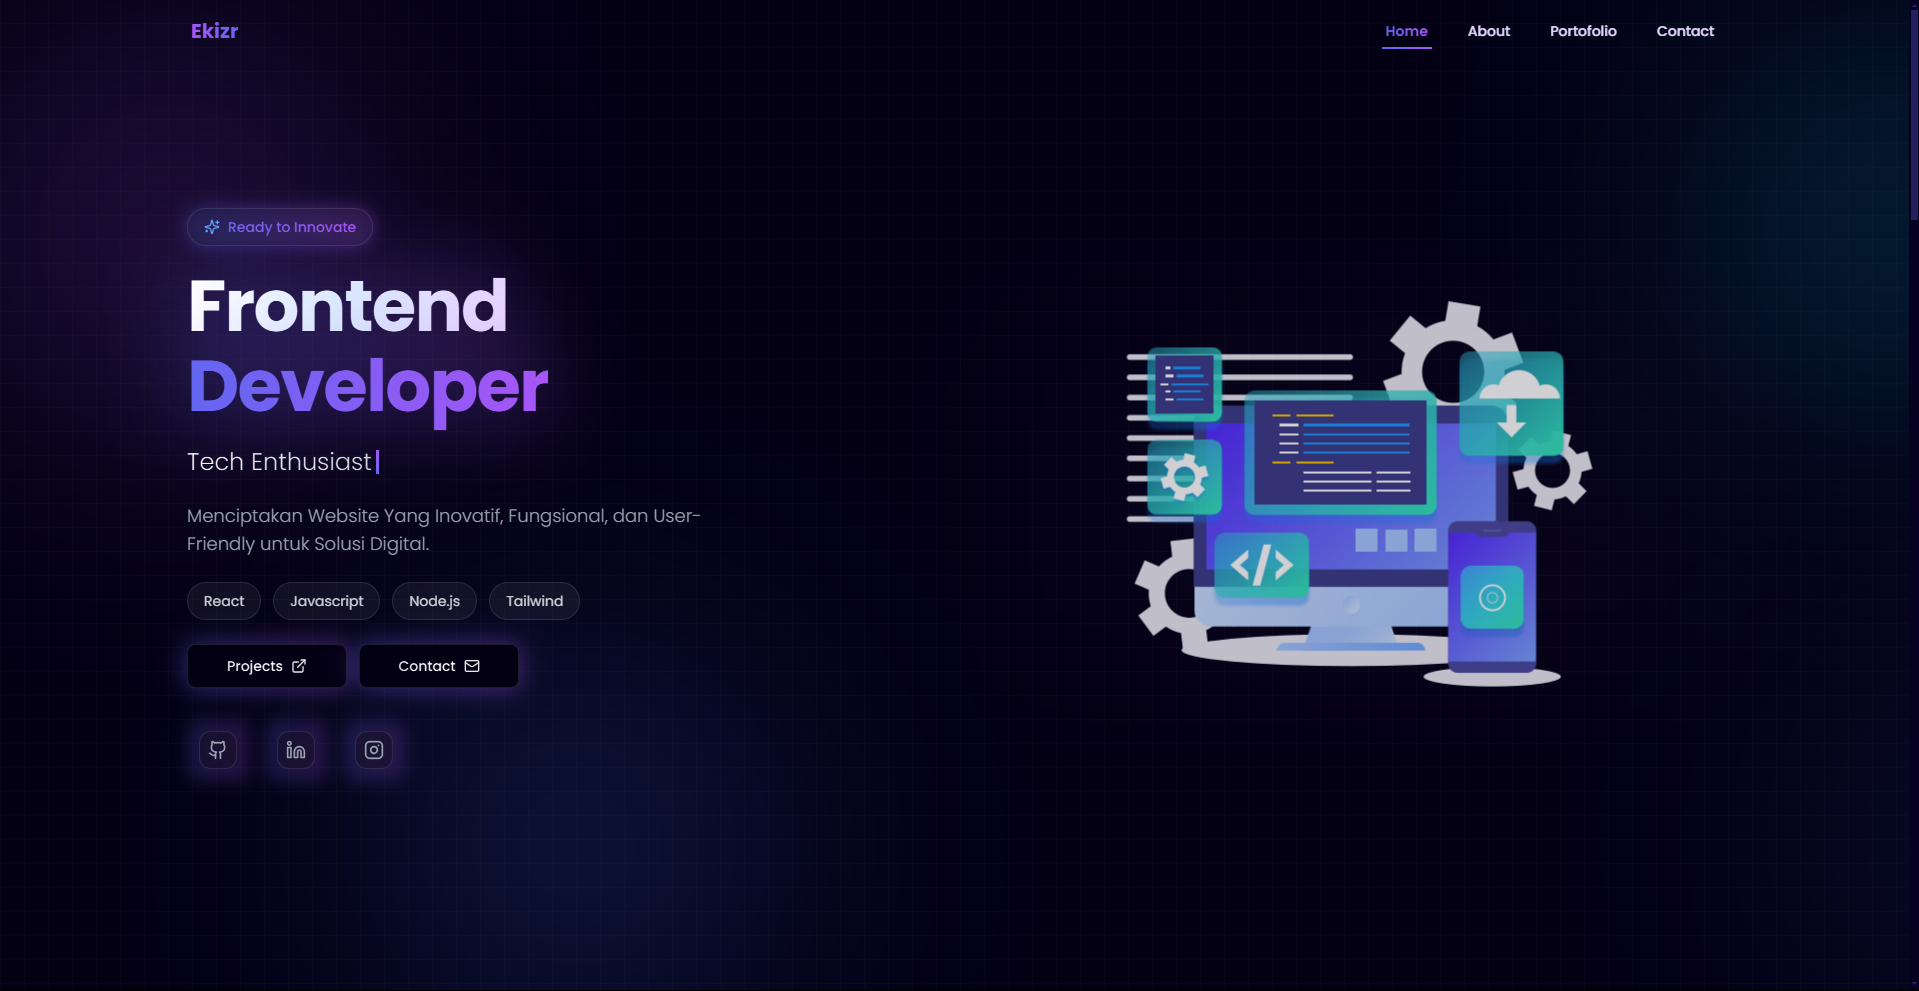
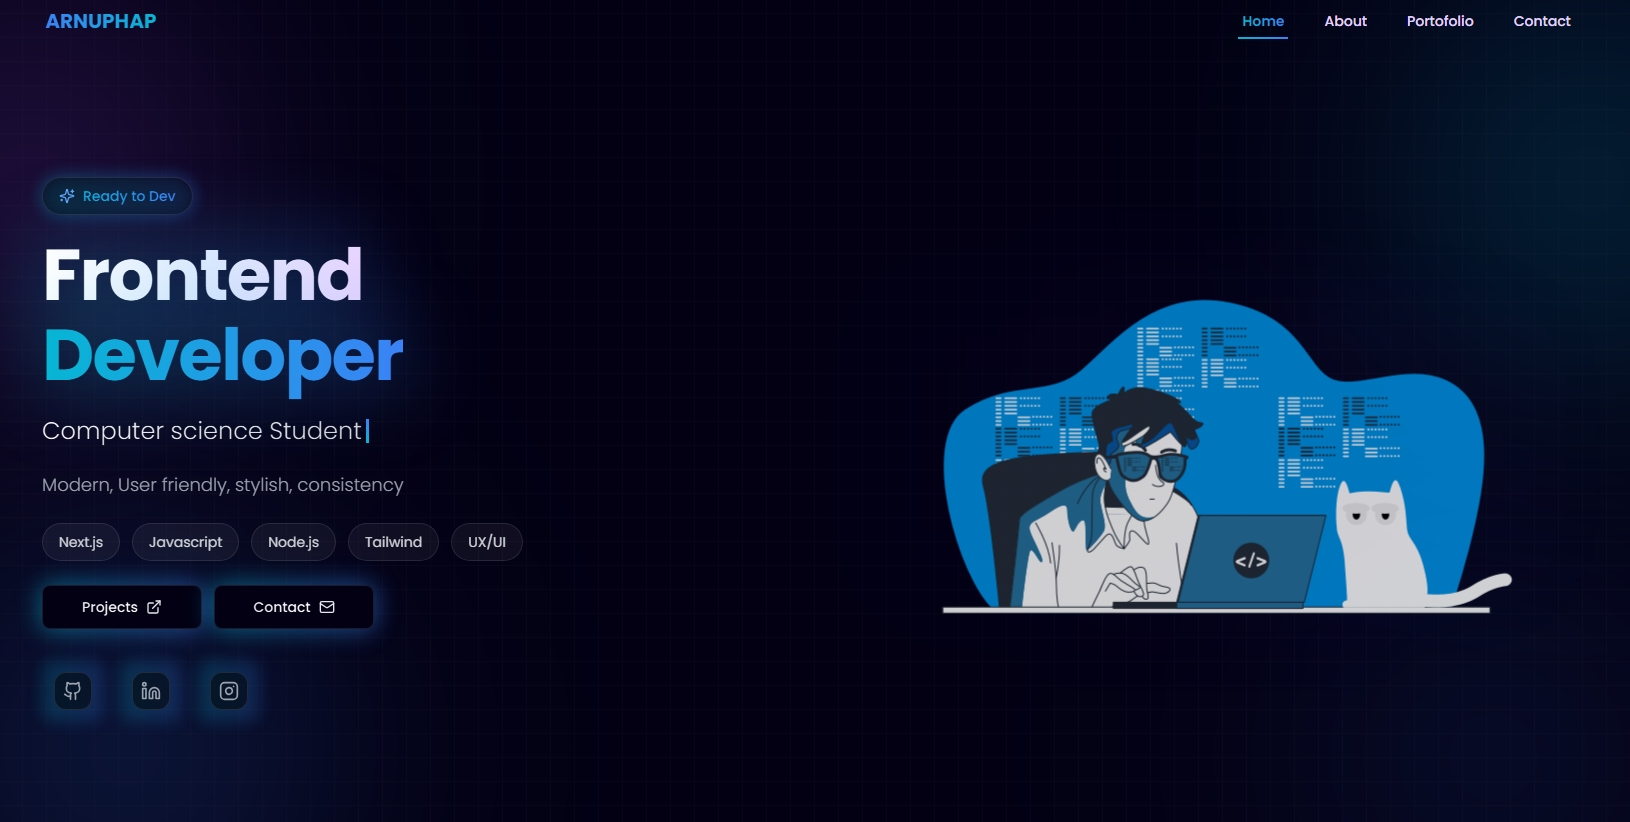
meta data update

diff --git a/index.html b/index.html
@@ -10,43 +10,43 @@
     />
     <meta
       name="keywords"
-      content="Eki, Eki Zulfar,Eki Zulfar Rachman, siapa Eki, Eki adalah , Siapa Eki Zulfar , ekizr"
+      content="Arnuphap, Arnuphap Thaiwong,Thaiwong, Arnuphap profile, Arnuphap Portfolio , Portfolio , Arnuphap Thaiwong Portfolio"
     />
     <meta name="mobile-web-app-capable" content="yes" />
     <meta
       name="title"
-      content="Eki Zulfar Rachman - Profil Pengembang Front-End Web"
+      content="Arnuphap Thaiwong - Profile Front-End Web"
     />
     <meta
       name="description"
-      content="Selamat datang di website saya! Saya adalah Eki Zulfar Rachman, atau panggil saja saya 'EKI.' Saya adalah seorang pengembang web dengan fokus pada menciptakan antarmuka pengguna yang menarik dan responsif. Temukan lebih banyak tentang karya-karya saya di sini"
+      content="Welcome to my website! I am Arnuphap Thaiwong, or just call me 'Dice.' I am a web developer with a focus on creating an attractive and responsive user interface. Discover more about my works here"
     />
 
     <!-- Open Graph / Facebook -->
     <meta property="og:type" content="website" />
-    <meta property="og:url" content="https://eki.my.id/" />
+    <meta property="og:url" content="https://arnuphapt.vercel.app/" />
     <meta
       property="og:title"
-      content="Eki Zulfar Rachman - Profil Pengembang Front-End Web"
+      content="Arnuphap Thaiwong - Profile Front-End Web"
     />
     <meta
       property="og:description"
-      content="Selamat datang di website saya! Saya adalah Eki Zulfar Rachman, atau panggil saja saya 'EKI.' Saya adalah seorang pengembang web dengan fokus pada menciptakan antarmuka pengguna yang menarik dan responsif. Temukan lebih banyak tentang karya-karya saya di sini"
+      content="Welcome to my website! I am Arnuphap Thaiwong, or just call me 'Dice.' I am a web developer with a focus on creating an attractive and responsive user interface. Discover more about my works here"
     />
-    <meta property="og:image" content="https://eki.my.id/Meta.png" />
+    <meta property="og:image" content="https://arnuphapt.vercel.app/Meta.png" />
 
     <!-- Twitter -->
     <meta property="twitter:card" content="summary_large_image" />
-    <meta property="twitter:url" content="https://eki.my.id/" />
+    <meta property="twitter:url" content="https://arnuphapt.vercel.app/" />
     <meta
       property="twitter:title"
-      content="Eki Zulfar Rachman - Profil Pengembang Front-End Web"
+      content="Arnuphap Thaiwong - Profile Front-End Web"
     />
     <meta
       property="twitter:description"
-      content="Selamat datang di website saya! Saya adalah Eki Zulfar Rachman, atau panggil saja saya 'EKI.' Saya adalah seorang pengembang web dengan fokus pada menciptakan antarmuka pengguna yang menarik dan responsif. Temukan lebih banyak tentang karya-karya saya di sini"
+      content="Welcome to my website! I am Arnuphap Thaiwong, or just call me 'Dice.' I am a web developer with a focus on creating an attractive and responsive user interface. Discover more about my works here"
     />
-    <meta property="twitter:image" content="https://eki.my.id/Meta.png" />
+    <meta property="twitter:image" content="https://arnuphapt.vercel.app/Meta.png" />
     <meta name="theme-color" content="rgb(3,0,20)" />
     <meta name="msapplication-navbutton-color" content="rgb(3,0,20)" />
     <meta name="apple-mobile-web-app-capable" content="yes" />

diff --git a/src/Pages/WelcomeScreen.jsx b/src/Pages/WelcomeScreen.jsx
@@ -160,7 +160,7 @@ const WelcomeScreen = ({ onLoadingComplete }) => {
                   <div className="relative flex items-center gap-2 text-lg sm:text-xl md:text-2xl">
                     <Globe className="w-4 h-4 sm:w-5 sm:h-5 text-cyan-500" />
                     <span className="bg-gradient-to-r from-cyan-500 to-blue-500 bg-clip-text text-transparent">
-                      <TypewriterEffect text="arnuphapt.vercel.app" />
+                      <TypewriterEffect text="arnuphapt.portfolio" />
                     </span>
                   </div>
                 </a>